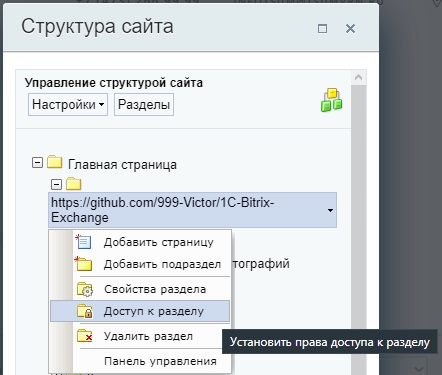
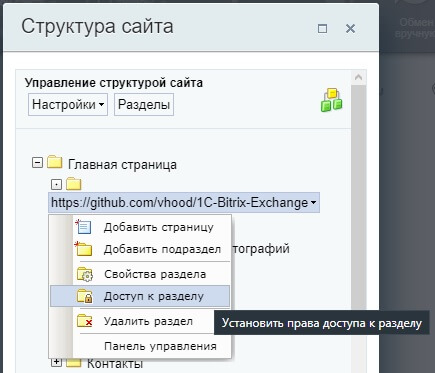
[chore] update link in security.jpg

diff --git a/README.md b/README.md
@@ -1,6 +1,6 @@
 # Обмен 1С с битрикс сайтом на стороне сайта
 
-[![VERSION](https://img.shields.io/badge/version-1.1.1-blue?style=for-the-badge&logo=appveyor)](https://github.com/vhood/1C-Bitrix-Exchange)
+[![VERSION](https://img.shields.io/badge/version-1.1.2-blue?style=for-the-badge&logo=appveyor)](https://github.com/vhood/1C-Bitrix-Exchange)
 [![LICENSE](https://img.shields.io/github/license/vhood/1C-Bitrix-Exchange?style=for-the-badge&logo=appveyor&color=blue)](LICENSE.md)
 
 > Note: this is a web page for data exchange between the "1C" program and the "1C:Bitrix" CMS, which are popular in Russia.

diff --git a/CHANGELOG.md b/CHANGELOG.md
@@ -1,5 +1,19 @@
 # Release Notes
 
+## [[1.1.2](https://github.com/999-Victor/1C-Bitrix-Exchange/releases/tag/v1.1.2)] - 02.10.2020
+
+>**Add**
+
+- .gitattributes
+
+>**Change**
+
+- security.jpg
+
+>**Fix**
+
+- CHANGELOG.md excess lines
+
 ***
 
 ## [[1.1.1](https://github.com/999-Victor/1C-Bitrix-Exchange/releases/tag/v1.1.1)] - 01.10.2020
@@ -7,8 +21,6 @@
 >**Fix**
 
 - README.md
-
-***
 
 ***
 
